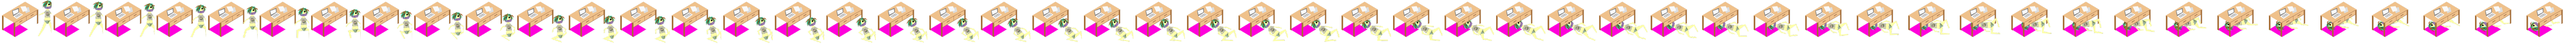
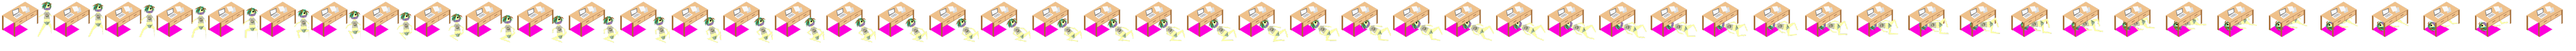
partty

diff --git a/melonJS/examples/isometric_rpg/js/entities/desk_entity.js b/melonJS/examples/isometric_rpg/js/entities/desk_entity.js
@@ -18,14 +18,15 @@ game.DeskEntity = me.Entity.extend({
         );
 
         // create a new sprite object
-        this.renderable = texture.createAnimationFromName([0, 1, 2, 3, 4, 5, 6, 7, 8, 9, 10]);
+        this.renderable = texture.createAnimationFromName(Array(50).fill(1).map(function(a, b, c) { return b}));
         // define an additional basic walking animation
         
-        this.renderable.addAnimation ("static", [10]);
-        this.renderable.addAnimation ("get in", [0, 1, 2, 3, 4, 5, 6, 7, 8, 9]);
-        this.renderable.addAnimation ("get out", [7, 6, 5, 4, 3, 2, 1, 0]);
+        this.renderable.addAnimation ("empty", [49]);
+        this.renderable.addAnimation ("full", [48]);
+        this.renderable.addAnimation ("get in", Array(50).fill(1).map(function(a, b, c) { return b}));
+        this.renderable.addAnimation ("get out", Array(50).fill(1).map(function(a, b, c) { return 49 - b}));
 
-        this.renderable.setCurrentAnimation(["static"]);
+        this.renderable.setCurrentAnimation(["empty"]);
         
         this.state = "empty";
 
@@ -66,9 +67,9 @@ game.DeskEntity = me.Entity.extend({
             //me.audio.play("Cabinet Open", false, null, .5);
             var that = this
             setTimeout(function() {
-                that.renderable.setCurrentAnimation("static");
+                that.renderable.setCurrentAnimation("full");
                 that.state = "full"
-            }, 700);
+            }, 4700);
 
            
             return false;
@@ -85,12 +86,12 @@ game.DeskEntity = me.Entity.extend({
             var that = this
             setTimeout(function() {
                 game.data.messages.push("you left the desk");
-                that.renderable.setCurrentAnimation("static");
+                that.renderable.setCurrentAnimation("empty");
                 that.state = "empty"
                 game.data.player.pos.x = that.pos.x + 124;
                 game.data.player.pos.y = that.pos.y + 24;
                 game.data.player.renderable.setOpacity(1)
-            }, 700);
+            }, 4700);
             
 
 

diff --git a/assets/animations/spritesheet.py b/assets/animations/spritesheet.py
@@ -11,7 +11,7 @@ files = os.listdir(folder)
 files.sort()
 print(files)
 images = []
-for f in files[::2]:
+for f in files[2::2]:
    if folder == "CRAWL-under-DESK/" :
        images.append(cv2.imread(folder + "/" + f, cv2.IMREAD_UNCHANGED))
         
@@ -43,10 +43,10 @@ for f in files[::2]:
            images[-1] = cv2.resize(images[-1], (128, 128))
            cv2.imshow("k", images[-1])
            print(images[-1].shape)
-           cv2.waitKey(80)
-print([i.shape for i in images])
+           cv2.waitKey(80000)
+print(len(images))
 x = np.concatenate(images, axis=1)
 cv2.imshow("k", x)
-cv2.waitKey(343)
+cv2.waitKey(30043)
 cv2.imwrite(folder[:-2] + "sheet.png", x)
 print(x.shape)
